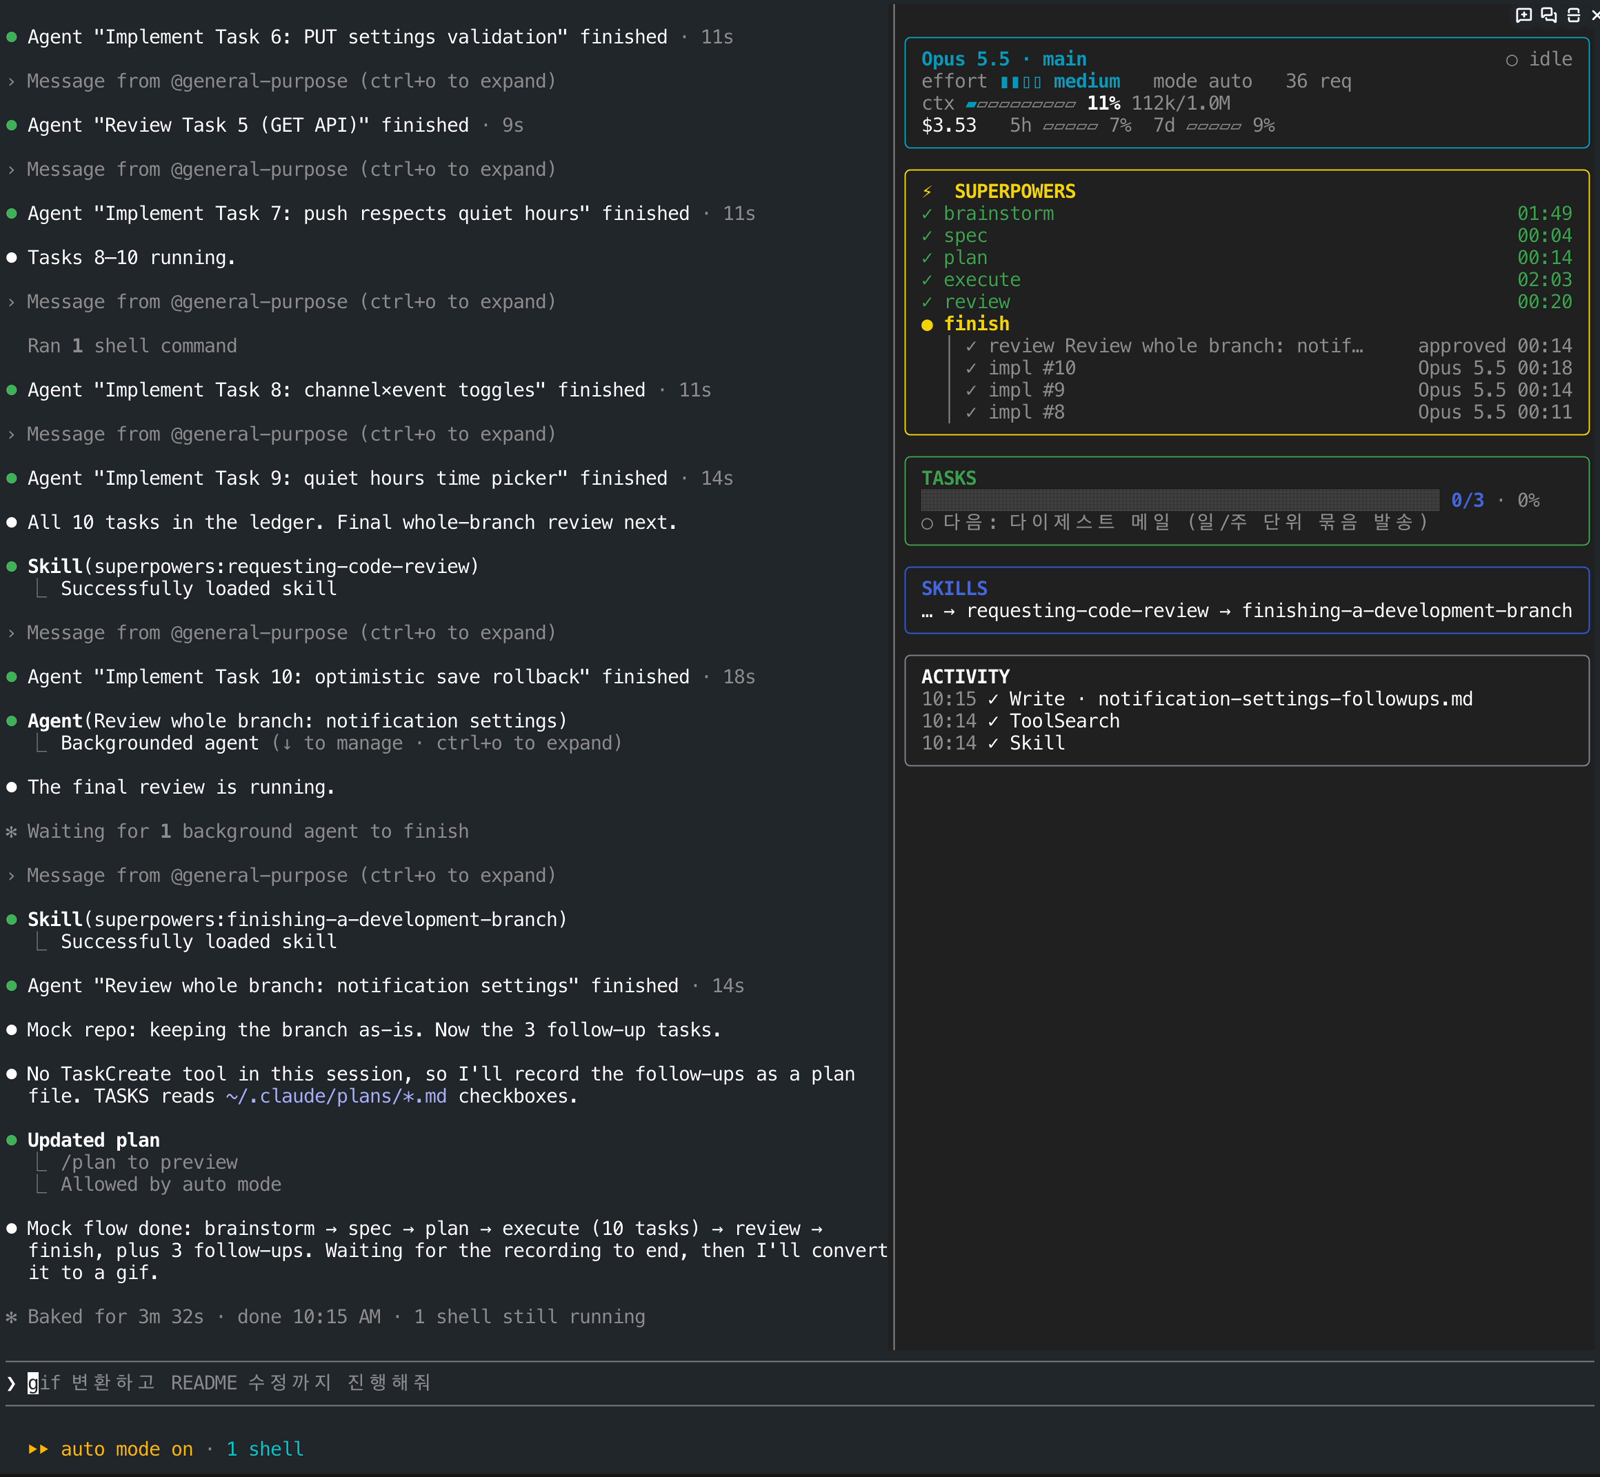
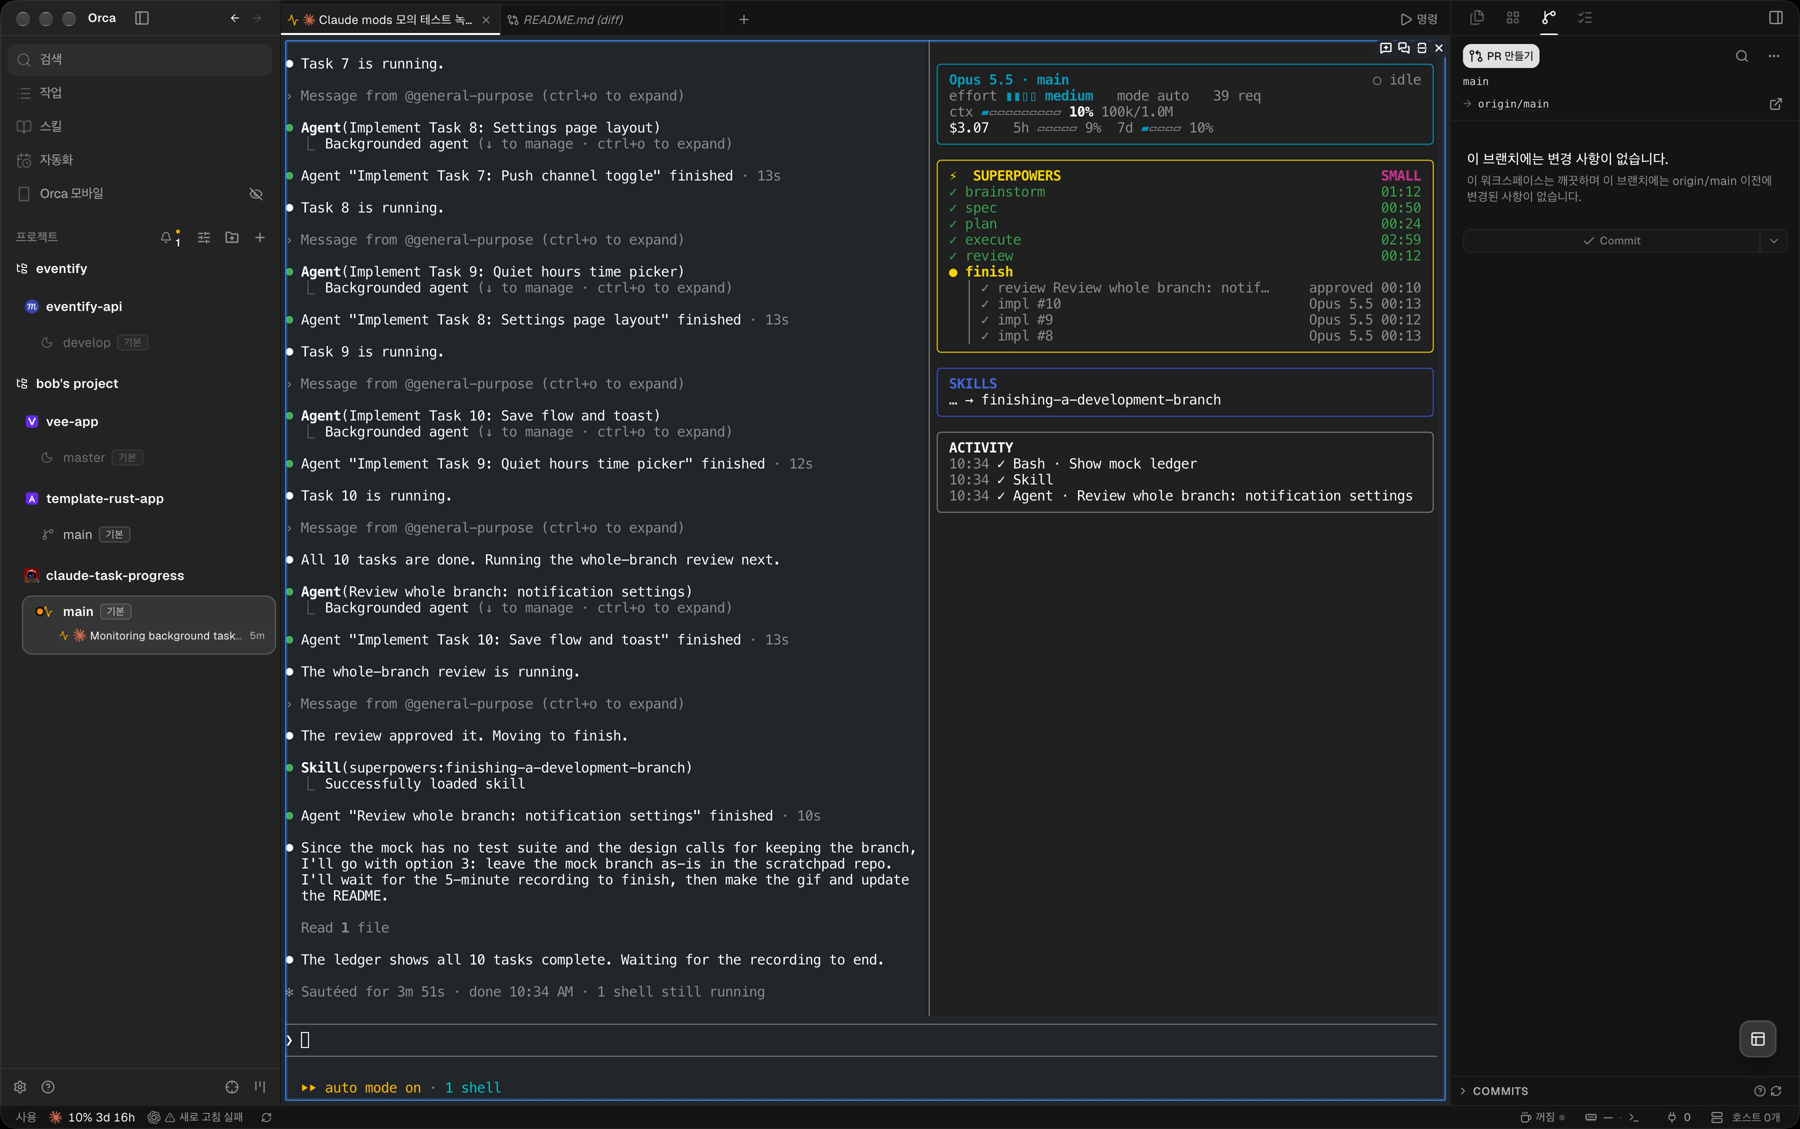
docs: 현재 세션 mock superpowers 데모 녹화로 gif/png 교체, README 갱신
Claude-Session: https://claude.ai/code/session_01RuuWskHCxHCMiCKnNrWd2n

diff --git a/README.md b/README.md
@@ -17,7 +17,7 @@ Claude Code mod: a pane docked to the right of the transcript that monitors any 
 
 While Claude or an agent works, spinners turn and a bright cell sweeps the in-progress part of each progress bar.
 
-The demo runs a mock superpowers cycle (a notification-settings page, 10 plan tasks, one impl subagent each, task and whole-branch reviews, then 3 follow-up tasks), sped up 6×:
+The demo runs a mock superpowers cycle in the same session that is being watched (a notification-settings page: brainstorm → spec → plan → 10 plan tasks, one impl subagent each, a whole-branch review, then finish), sped up 6×:
 
 ![task-progress demo](docs/images/task-progress.gif)
 
